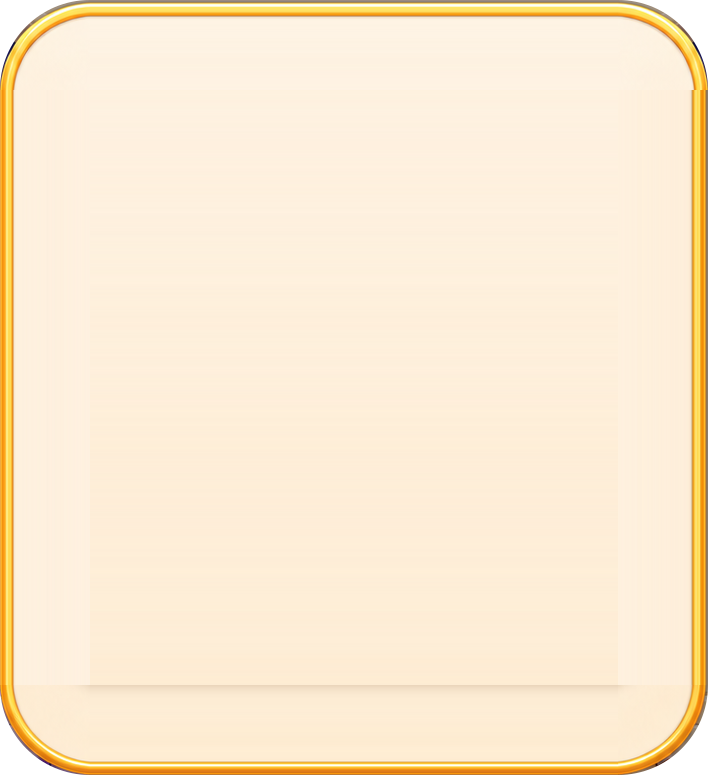
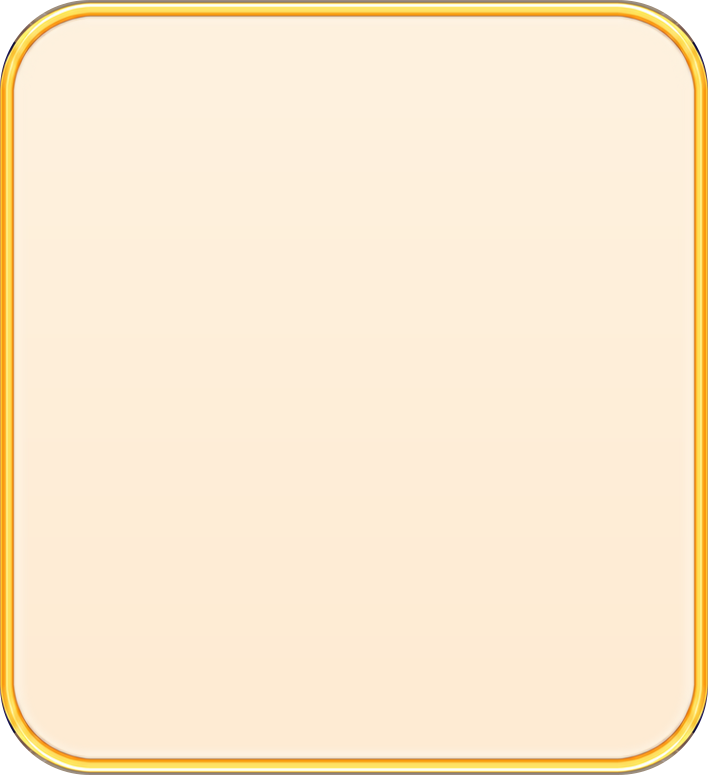
Fix ring orientation, physical layers and sliced artwork seams

Changed region(s): [[0.0, 0.0929, 1.0, 1.0]]

diff --git a/src/prototype/board.js b/src/prototype/board.js
@@ -1,18 +1,19 @@
 import * as THREE from 'three';
 import { cellId } from '../game/hex.js';
-import { canPlaceMagnet } from './model.js';
+import { COLORS, canPlaceMagnet } from './model.js';
 import { sampleTransferTimeline } from './motion.js';
+import { createRingGeometry, hexContour, RING_HEIGHT } from './ring.js';
 
-const UNIT_HEIGHT = .17;
+const UNIT_HEIGHT = RING_HEIGHT;
 const FLOOR = .16;
 const RADIUS = .64;
 export function cellPosition(cell) {
   return { x: (cell.col - 3 + (cell.row % 2) * .5 - .25) * Math.sqrt(3) * RADIUS,
-    z: (cell.row - 3) * 1.75 * RADIUS };
+    z: (cell.row - 3) * 1.94 * RADIUS };
 }
 
-// Authored raster layers in a Three scene. Each ring is still an independently
-// positioned object: the model, neighbor routes and transfer timing are unchanged.
+// Raster UI/tiles and solid rings share one Three scene. Every model unit owns
+// one mesh; the authored ring top is mapped without its baked side wall.
 export function createThreeBoard(canvas, textures) {
   const renderer = new THREE.WebGLRenderer({ canvas, antialias: true, alpha: true });
   renderer.setClearColor(0x000000, 0);
@@ -20,21 +21,39 @@ export function createThreeBoard(canvas, textures) {
   renderer.outputColorSpace = THREE.SRGBColorSpace;
   const scene = new THREE.Scene();
   const camera = new THREE.OrthographicCamera(-4, 4, 4, -4, .1, 60);
-  camera.position.set(0, 13, 9); camera.lookAt(0, .1, 0);
+  camera.position.set(0, 11, 10); camera.lookAt(0, .1, 0);
+  scene.add(new THREE.HemisphereLight(0xffffff, 0x654777, 2));
+  const light = new THREE.DirectionalLight(0xffffff, 2.5);
+  light.position.set(-4, 8, 5); scene.add(light);
   const resources = new Set(Object.values(textures));
   const own = resource => { resources.add(resource); return resource; };
   const plane = own(new THREE.PlaneGeometry(1, 1));
+  const ringGeometry = own(createRingGeometry());
   const materials = Object.fromEntries(Object.entries(textures).map(([name, texture]) => [name,
     own(new THREE.MeshBasicMaterial({ map: texture, transparent: true, depthTest: false, depthWrite: false, toneMapped: false, side: THREE.DoubleSide }))]));
+  const ringMaterials = Object.fromEntries(Object.entries(COLORS).map(([color, info]) => {
+    const cap = own(materials['ring-' + color].clone());
+    cap.depthTest = cap.depthWrite = true;
+    const wall = own(new THREE.MeshStandardMaterial({ color: info.hex, roughness: .28, metalness: .08,
+      transparent: true, depthTest: true, depthWrite: true }));
+    return [color, [cap, wall]];
+  }));
+  const tileHeight = 1.18 * textures.tile.image.height / textures.tile.image.width;
   const pickShape = new THREE.Shape();
-  for (let i = 0; i < 6; i++) {
-    const x = Math.sin(i * Math.PI / 3) * RADIUS * .92, y = Math.cos(i * Math.PI / 3) * RADIUS * .92;
-    if (!i) pickShape.moveTo(x, y); else pickShape.lineTo(x, y);
-  }
+  [[0, .5], [.5, .25], [.5, -.25], [0, -.5], [-.5, -.25], [-.5, .25]].forEach(([x, y], index) => {
+    if (!index) pickShape.moveTo(x * 1.18, y * tileHeight); else pickShape.lineTo(x * 1.18, y * tileHeight);
+  });
   pickShape.closePath();
   const pickGeometry = own(new THREE.ShapeGeometry(pickShape));
-  pickGeometry.rotateX(-Math.PI / 2);
   const pickMaterial = own(new THREE.MeshBasicMaterial({ colorWrite: false, depthWrite: false, side: THREE.DoubleSide }));
+  const blockerGeometry = own(new THREE.ShapeGeometry(hexContour(.50)));
+  const blockerPositions = blockerGeometry.attributes.position;
+  const blockerUV = blockerGeometry.attributes.uv;
+  for (let index = 0; index < blockerPositions.count; index++) {
+    blockerUV.setXY(index, (70 + blockerPositions.getX(index) / .50 * 59) / 140,
+      1 - (65 - blockerPositions.getY(index) / .50 * 59) / 141);
+  }
+  blockerGeometry.rotateX(-Math.PI / 2);
   const validMaterial = own(materials.tile.clone()); validMaterial.color.set('#b7ffd3');
   const invalidMaterial = own(materials.tile.clone()); invalidMaterial.color.set('#ffaaa0');
   const tutorialMaterial = own(materials.tile.clone()); tutorialMaterial.color.set('#fff1a6');
@@ -60,19 +79,28 @@ export function createThreeBoard(canvas, textures) {
     const blocked = new Set(level.blockers.map(cellId));
     for (const cell of level.cells) {
       const pos = cellPosition(cell), id = cellId(cell);
-      const tile = artwork(blocked.has(id) ? 'blocker' : 'tile', 1.18);
+      const tile = artwork('tile', 1.18);
       tile.position.set(pos.x, 0, pos.z);
       tile.renderOrder = Math.round(pos.z * 100);
       boardRoot.add(tile); cellMeshes.set(id, tile);
+      if (blocked.has(id)) {
+        const marker = new THREE.Mesh(blockerGeometry, materials.blocker);
+        marker.position.set(pos.x, FLOOR, pos.z); marker.renderOrder = 500;
+        boardRoot.add(marker);
+      }
       const pick = new THREE.Mesh(pickGeometry, pickMaterial);
-      pick.position.set(pos.x, .15, pos.z); pick.userData.cell = cell;
+      pick.quaternion.copy(camera.quaternion);
+      pick.position.set(pos.x, 0, pos.z); pick.userData.cell = cell;
       boardRoot.add(pick); pickMeshes.push(pick);
     }
   }
   function unitMesh(unit) {
     if (unitMeshes.has(unit.id)) return unitMeshes.get(unit.id);
     const root = new THREE.Group();
-    root.add(artwork('ring-' + unit.color, .94));
+    const body = new THREE.Mesh(ringGeometry, ringMaterials[unit.color]);
+    body.renderOrder = 1000; body.userData.unitId = unit.id;
+    body.position.y = -UNIT_HEIGHT / 2;
+    root.add(body);
     unitsRoot.add(root); unitMeshes.set(unit.id, root);
     return root;
   }
@@ -88,7 +116,7 @@ export function createThreeBoard(canvas, textures) {
       if (pose.from) {
         const from = cellPosition(pose.from), to = cellPosition(pose.to);
         const p = pose.progress, ease = p * p * (3 - 2 * p);
-        const fromY = FLOOR + pose.fromIndex * UNIT_HEIGHT, toY = FLOOR + pose.toIndex * UNIT_HEIGHT;
+        const fromY = FLOOR + (pose.fromIndex + .5) * UNIT_HEIGHT, toY = FLOOR + (pose.toIndex + .5) * UNIT_HEIGHT;
         mesh.position.set(THREE.MathUtils.lerp(from.x, to.x, ease), THREE.MathUtils.lerp(fromY, toY, ease), THREE.MathUtils.lerp(from.z, to.z, ease));
         if (!timeline.reduced) {
           mesh.position.y += Math.sin(p * Math.PI) * .54;
@@ -96,15 +124,14 @@ export function createThreeBoard(canvas, textures) {
           mesh.setRotationFromAxisAngle(axis, -Math.PI * 2 * ease);
         }
       } else {
-        const pos = cellPosition(pose.cell); mesh.position.set(pos.x, FLOOR + pose.index * UNIT_HEIGHT, pos.z);
+        const pos = cellPosition(pose.cell); mesh.position.set(pos.x, FLOOR + (pose.index + .5) * UNIT_HEIGHT, pos.z);
       }
-      // Front rows occlude rear rows; a moving piece clears the static board.
-      mesh.children[0].renderOrder = pose.from ? 2000 : Math.round(mesh.position.z * 100) + 40 + pose.index;
+      mesh.userData = { id: pose.id, color: pose.color, cell: pose.cell ?? null, index: pose.index ?? null,
+        moving: Boolean(pose.from), from: pose.from, to: pose.to, progress: pose.progress, scale: pose.scale };
     }
     for (const [id, mesh] of unitMeshes) if (!alive.has(id)) { unitsRoot.remove(mesh); unitMeshes.delete(id); }
     for (const [id, tile] of cellMeshes) {
-      const isBlocked = level.blockers.some(cell => cellId(cell) === id);
-      tile.material = isBlocked ? materials.blocker : materials.tile;
+      tile.material = materials.tile;
       if (hover && cellId(hover) === id && selected && !paused) tile.material = canPlaceMagnet(state, hover) ? validMaterial : invalidMaterial;
       else if (hint && cellId(hint) === id && !paused) tile.material = tutorialMaterial;
     }
@@ -114,7 +141,7 @@ export function createThreeBoard(canvas, textures) {
       const pos = cellPosition(activeMagnet.cell);
       magnet.position.set(pos.x, FLOOR + .12, pos.z);
       magnet.material = materials['magnet-' + activeMagnet.color];
-      magnet.renderOrder = Math.round(pos.z * 100) + 35;
+      magnet.renderOrder = 600;
     }
     scene.updateMatrixWorld(true); renderer.render(scene, camera);
   }
@@ -138,10 +165,11 @@ export function createThreeBoard(canvas, textures) {
     },
     screenPosition(cell) {
       const pos = cellPosition(cell), rect = canvas.getBoundingClientRect();
-      projected.set(pos.x, .15, pos.z).project(camera);
+      projected.set(pos.x, 0, pos.z).project(camera);
       return { x: rect.left + (projected.x + 1) * rect.width / 2, y: rect.top + (1 - projected.y) * rect.height / 2 };
     },
-    snapshot() { return { engine: 'Three.js', revision: THREE.REVISION, artwork: 'mockup-raster', meshes: unitMeshes.size,
+    snapshot() { return { engine: 'Three.js', revision: THREE.REVISION, artwork: 'textured-solid-rings', meshes: unitMeshes.size,
+      units: [...unitMeshes.values()].map(mesh => ({ ...mesh.userData, position: mesh.position.toArray(), height: RING_HEIGHT * mesh.scale.x })),
       geometries: renderer.info.memory.geometries, textures: renderer.info.memory.textures, drawCalls: renderer.info.render.calls }; },
     dispose() {
       if (disposed) return;

diff --git a/src/prototype/ring.js b/src/prototype/ring.js
@@ -1,0 +1,51 @@
+import * as THREE from 'three';
+
+export const RING_RADIUS = .51;
+export const RING_HEIGHT = .15;
+const BEVEL = .025;
+
+// The common point-up contour lives on the board plane. Do not rotate a
+// perspective-baked PNG in screen space: it also rotates its baked side wall.
+export function hexContour(radius, reverse = false) {
+  const shape = new THREE.Shape();
+  const points = Array.from({ length: 6 }, (_, index) => {
+    const angle = (reverse ? -index : index) * Math.PI / 3;
+    return new THREE.Vector2(Math.sin(angle) * radius, Math.cos(angle) * radius);
+  });
+  points.forEach((point, index) => {
+    const previous = points[(index + 5) % 6], next = points[(index + 1) % 6];
+    const start = point.clone().lerp(previous, .07), end = point.clone().lerp(next, .07);
+    if (!index) shape.moveTo(start.x, start.y); else shape.lineTo(start.x, start.y);
+    shape.quadraticCurveTo(point.x, point.y, end.x, end.y);
+  });
+  shape.closePath();
+  return shape;
+}
+
+// Unproject the authored flat-up top face, then turn it 30 degrees on the
+// board plane. UVs intentionally exclude the lower PNG pixels containing a
+// baked side wall and a sliver of the next layer in the original stack.
+export function ringFaceUV(x, y) {
+  const turnedX = x * Math.cos(Math.PI / 6) + y * .5;
+  const turnedY = -x * .5 + y * Math.cos(Math.PI / 6);
+  return new THREE.Vector2((58 + turnedX / RING_RADIUS * 52) / 116,
+    1 - (32 - turnedY / RING_RADIUS * 27) / 75);
+}
+
+export function createRingGeometry() {
+  const shape = hexContour(RING_RADIUS);
+  shape.holes.push(hexContour(.185, true));
+  const geometry = new THREE.ExtrudeGeometry(shape, {
+    depth: RING_HEIGHT - BEVEL * 2, bevelEnabled: true,
+    bevelSize: BEVEL, bevelThickness: BEVEL, bevelSegments: 3,
+    curveSegments: 4, steps: 1,
+    UVGenerator: {
+      generateTopUV: (_, vertices, ...indices) => indices.map(index => ringFaceUV(vertices[index * 3], vertices[index * 3 + 1])),
+      generateSideWallUV: (_, vertices, ...indices) => indices.map(index => new THREE.Vector2(vertices[index * 3], vertices[index * 3 + 2] / RING_HEIGHT)),
+    },
+  });
+  geometry.rotateX(-Math.PI / 2);
+  geometry.translate(0, BEVEL, 0);
+  geometry.computeBoundingBox();
+  return geometry;
+}

diff --git a/tests/ring.test.js b/tests/ring.test.js
@@ -1,0 +1,31 @@
+import test from 'node:test';
+import assert from 'node:assert/strict';
+import * as THREE from 'three';
+import { createRingGeometry, RING_HEIGHT, RING_RADIUS, ringFaceUV } from '../src/prototype/ring.js';
+
+test('solid ring has a real through hole and exactly one layer of height', () => {
+  const geometry = createRingGeometry();
+  const material = new THREE.MeshBasicMaterial({ side: THREE.DoubleSide });
+  const mesh = new THREE.Mesh(geometry, material);
+  mesh.updateMatrixWorld(true);
+  const ray = new THREE.Raycaster(new THREE.Vector3(0, 2, 0), new THREE.Vector3(0, -1, 0));
+  assert.equal(ray.intersectObject(mesh).length, 0, 'centre is open rather than painted dark');
+  ray.ray.origin.x = .32;
+  assert.ok(ray.intersectObject(mesh).length > 0, 'ring body has a solid cap');
+  assert.ok(Math.abs(geometry.boundingBox.min.y) < 1e-6);
+  assert.ok(Math.abs(geometry.boundingBox.max.y - RING_HEIGHT) < 1e-6);
+  // Point-up hex: its two tips are along the row axis, not the column axis.
+  const size = geometry.boundingBox.getSize(new THREE.Vector3());
+  assert.ok(size.z > size.x);
+  geometry.dispose(); material.dispose();
+});
+
+test('top texture never samples the baked side wall or the adjacent PNG layer', () => {
+  for (let index = 0; index < 360; index++) {
+    const angle = index * Math.PI / 180;
+    const uv = ringFaceUV(Math.sin(angle) * RING_RADIUS, Math.cos(angle) * RING_RADIUS);
+    const pixelY = (1 - uv.y) * 75;
+    assert.ok(pixelY >= 5 - 1e-6 && pixelY <= 59 + 1e-6);
+    assert.ok(uv.x > 0 && uv.x < 1);
+  }
+});

diff --git a/docs/design/MOCKUP_ASSETS.md b/docs/design/MOCKUP_ASSETS.md
@@ -10,15 +10,15 @@
 
 - `logo-exact`, `background`, `magnet-*`, `pause`, `close`, `hint`, `restart`: изображения в DOM и/или текстуры Three.
 - `panel`, `modal`, `button-*`, `tool-*-frame`, `progress-*`, `loading-*`: CSS border-image с fill/stretch, аналог nine-slice. Углы и кромки берутся из PNG, без CSS-градиентов вместо рисунка.
-- `tile`, `blocker`, `ring-*`, `magnet-*`: общие sRGB-текстуры в Three.js. Камера фиксирована; графика запечена в плоскостях, ориентированных к камере. Каждый элемент остаётся отдельным объектом, движущимся по реальным соседним клеткам. Это 2.5D-представление в Three, не процедурная объёмная геометрия прежней версии.
+- `tile`, `blocker`, `ring-*`, `magnet-*`: общие sRGB-текстуры в Three.js. Плитки и магниты ориентированы к фиксированной камере; препятствие — вставка на плитке. С 2026-10-10 каждый элемент стопки — отдельное объёмное кольцо с настоящим отверстием. На его верх проецируется только верхняя грань исходного PNG; запечённая боковина не дублирует слои. Подробности: [THREE_RENDERING](THREE_RENDERING.md).
 - `paused-title`, `defeat-title`, `defeat-magnet`, `victory-ribbon`, `tutorial-arrow`, `switch-*`: графика соответствующих состояний.
 - `loading-art` — отдельная верхняя иллюстрация экрана загрузки; текст, полоса и процент живые. Процент отражает число завершённых загрузок/декодирований, а не выдуманное значение 72% из мокапа.
 - `logo` и `tool-violet/blue/coral` оставлены как исходные варианты/пластины для дизайнера; runtime использует отдельные компоненты.
 
 DOM отвечает за расположение, доступность, английские динамические тексты и счётчики. Nunito остаётся локальным шрифтом с OFL. Карточки, панели, кнопки и переключатель получают внешний вид из PNG. Первый уровень показывает один магнит, графическую стрелку к настоящей клетке и двухстрочную инструкцию; следующие уровни — три магнита.
 
-Все ресурсы декодируются до открытия ввода. Ошибка любого обязательного PNG показывает Retry; повторная инициализация и dispose инвалидируют устаревшие загрузки. Неуспешная/устаревшая партия освобождает текстуры. Сцена владеет восемью общими текстурами, материалами и двумя геометриями. Reset переиспользует их. RAF по-прежнему один и работает только во время timeline.
+Все ресурсы декодируются до открытия ввода. Ошибка любого обязательного PNG показывает Retry; повторная инициализация и dispose инвалидируют устаревшие загрузки. Неуспешная/устаревшая партия освобождает текстуры. Сцена владеет восемью общими текстурами, материалами и четырьмя геометриями. Reset переиспользует их. RAF по-прежнему один и работает только во время timeline.
 
 ## Проверки и границы
 
-Проверки и актуальные снимки: [RASTER_DESIGN](../reports/RASTER_DESIGN.md). Сравнение оценивает реальные изображения и пропорции, а не обещает попиксельное совпадение: поле модели содержит 25 клеток, макет — условную геометрию; динамические числа, переносы строк и размеры адаптируются к экрану. Отверстия/свет на спрайтах запечены, свободное вращение камеры не поддерживается. Фон и клетка после восстановления могут отличаться от закрытых частей оригинала. Реальные устройства и производительность на телефоне не измерялись.
+Проверки первоначального переноса: [RASTER_DESIGN](../reports/RASTER_DESIGN.md); исправлений: [RING_VISUAL_FIXES](../reports/RING_VISUAL_FIXES.md). Сборщик удаляет отдельные alpha-островки вокруг плитки и восстанавливает пустые внутренние области рамок с плавным переходом, чтобы nine-slice не показывал прямоугольные заплатки. Золотые края модального окна собираются из согласованного угла и прилегающих пикселей. Попиксельное совпадение не заявляется: поле модели содержит 25 клеток, макет — условную геометрию; динамические числа, переносы строк и размеры адаптируются. Свободное вращение камеры не поддерживается. Фон и клетка после восстановления могут отличаться от закрытых частей оригинала. Реальные устройства и производительность на телефоне не измерялись.

diff --git a/docs/design/THREE_RENDERING.md b/docs/design/THREE_RENDERING.md
@@ -18,7 +18,7 @@ View не вызывает симулятор. Модель не знает о T
 ## Рендер и ввод
 
 - WebGLRenderer, WebGL 2; OrthographicCamera под фиксированным углом. Нет OrbitControls или второго animation loop.
-- Отдельная mesh-группа на реальный элемент; фактическая высота соответствует индексу в массиве units. Geometry/material/texture общие для сцены. Актуальная графика — PNG-плоскости из утверждённых мокапов, ориентированные к фиксированной камере; это 2.5D в Three. Свет и отверстия запечены в рисунке.
+- Отдельная mesh-группа на реальный элемент; фактическая высота соответствует индексу в массиве units. Кольца — общая ExtrudeGeometry с настоящим сквозным отверстием, вершиной hex вверх и толщиной 0.15 на каждый элемент. Верхняя грань использует текстуру мокапа без запечённой боковины; боковина и фаски объёмные, с простым освещением. Вращение идёт вокруг центра кольца. Плитки и магниты остаются PNG-плоскостями.
 - Resize задаёт CSS размер, drawing buffer с текущим DPR и frustum камеры. Весь board остаётся в кадре portrait/landscape.
 - Pointer переводится из актуального `canvas.getBoundingClientRect()` в NDC, затем Raycaster проверяет плитки. Модель повторно проверяет разрешение на placement; target от view — только cell, не mesh.
 - Drag захватывает pointer, игнорирует второй pointer и отменяется при cancel, lost capture, blur, hidden, resize, pause/reset/dispose. Tap поля с большим перемещением указателя не превращается в случайное размещение.
@@ -26,7 +26,7 @@ View не вызывает симулятор. Модель не знает о T
 
 ## Lifecycle и стоимость
 
-Растровая редакция 2026-10-09 заменяет прежние ExtrudeGeometry/RoomEnvironment/PMREM на общую PlaneGeometry, отдельную ShapeGeometry для raycast и восемь sRGB-текстур. MeshBasicMaterial не меняет запечённые цвета освещением или tone mapping. PNG загружаются и декодируются до ввода, включая DOM/nine-slice ресурсы. При ошибке партии успешные текстуры освобождаются; generation token отклоняет результаты после retry/dispose. Подробности и источники: [MOCKUP_ASSETS](MOCKUP_ASSETS.md). DOM +6 берётся из события очистки, не вычисляет игровой результат.
+Исправление 2026-10-10 использует четыре общие геометрии: плоскость, raycast hex, вставку препятствия и объёмное кольцо; восемь sRGB-текстур. Кольца записывают глубину и перекрывают друг друга по реальному положению. PNG плиток не перекрывают нижние слои стопки. Raycast соответствует видимому контуру плитки. Нет PMREM, постобработки и теневых карт. PNG загружаются и декодируются до ввода, включая DOM/nine-slice ресурсы. При ошибке партии успешные текстуры освобождаются; generation token отклоняет результаты после retry/dispose. Подробности и источники: [MOCKUP_ASSETS](MOCKUP_ASSETS.md). DOM +6 берётся из события очистки, не вычисляет игровой результат.
 
 RAF принадлежит runtime и нужен только при активной timeline. Pause/hidden сбрасывают накопитель и предыдущий timestamp. Reset удаляет presentation и восстанавливает исходные units, переиспользуя renderer и GPU-ресурсы. При смене уровня mesh-экземпляры пересоздаются, shared buffers остаются.
 

diff --git a/docs/reports/RING_VISUAL_FIXES.md b/docs/reports/RING_VISUAL_FIXES.md
@@ -1,0 +1,17 @@
+# Исправления визуализации — 2026-10-10
+
+Пользователь сообщил о неверной ориентации стопок, несоответствии видимых слоёв перелетающим элементам и артефактах ассетов.
+
+Причины: PNG кольца был ориентирован гранью вверх, а плитка — вершиной; PNG уже содержал боковую стенку. Наложение таких плоскостей скрывало границы настоящих элементов, а при перевороте показывало бумажную грань. Порядок отрисовки по рядам позволял плиткам закрывать низ стопки. В рамках оставались прямоугольные заплатки, в плитке — отдельные цветные пиксели.
+
+Каждый элемент теперь имеет одну общую объёмную геометрию с настоящим отверстием и толщиной 0.15. Текстура верха берётся из мокапа без нижней боковины. Поворот вершиной вверх согласован с плиткой, переворот идёт вокруг центра, глубина определяет перекрытие колец. Высота соседних элементов отличается ровно на толщину кольца. Препятствие помещено на обычную плитку; raycast повторяет её видимый контур. PNG-рамки очищены с плавным переходом; углы и края модального окна согласованы. Правила, состав уровней и тайминг переноса не менялись.
+
+Проверки:
+
+- `pnpm check:full`: 135 тестов и production build.
+- `GAME_BASE_URL=http://127.0.0.1:5174 node tools/browser-check.cjs`: desktop/mobile viewport, размещение/перетаскивание, pause/reset, все решения, победа/поражение, resize и освобождение.
+- `node tools/raster-browser-check.cjs` с тем же GAME_BASE_URL: загрузка PNG, отказ/retry, обучение и адаптивность.
+- `node tools/ring-browser-check.cjs` с тем же GAME_BASE_URL: 782 детерминированных WebGL-кадра всех решений, обычное/уменьшенное движение; сравнение ID всех неочищенных элементов с mesh, отсутствие дубликатов, число перелётов, физические позиции слоёв. Четыре общие геометрии остаются стабильными после прогрева. Один элемент может законно совершить несколько соседних перелётов — число событий переноса не равно числу уникальных колец.
+- Визуально просмотрены снимки gameplay, pause и трёх фаз переворота; браузерные артефакты: `artifacts/raster-browser/`, `artifacts/ring-browser/`, `artifacts/three-browser/`.
+
+Браузерные проверки используют Chromium и размеры экранов, а не физический телефон. Реальная мобильная производительность не измерялась. Это исправление конкретных причин артефактов; попиксельное совпадение всех адаптивных состояний с иллюстративными мокапами не заявляется.

diff --git a/docs/PROJECT.md b/docs/PROJECT.md
@@ -9,12 +9,13 @@
 | `src/prototype/model.js` | Rules v3: ordered units, immutable applyMagnet, BFS, верхний цвет, очистка по 6, победа/поражение |
 | `src/prototype/levels.js` | Три авторских поля и детерминированные решения |
 | `src/prototype/motion.js` | Поэлементная timeline: запуск, соседний полёт, посадка, очистка, reduced motion |
-| `src/prototype/board.js` | Three.js 0.186.1, OrthographicCamera, PNG-плоскости/общие текстуры, raycasting, GPU cleanup |
+| `src/prototype/board.js`, `ring.js` | Three.js 0.186.1, OrthographicCamera, объёмные кольца с PNG-текстурой верха, плитки/магниты, raycasting, GPU cleanup |
 | `src/prototype/assets.js`, `public/art/mockup/` | Декодирование PNG до ввода, общие текстуры, nine-slice рамки, manifest вырезок |
 | `src/prototype/App.js`, `prototype.css` | Preact HUD, магниты, правила, hint/result/retry, адаптивная композиция |
 | `src/game/hex.js`, `src/loop.js` | Переиспользуемые чистые hex helpers и fixed step |
 | `tests/prototype-v3.test.js` | Соседство каждого переноса, открытые слои, масса, immutable state, все legal first placements, решения и timeline |
 | `tools/browser-check.cjs` | Новый desktop/mobile viewport сценарий Three.js; `pnpm test:browser` |
+| `tests/ring.test.js`, `tools/ring-browser-check.cjs` | Сквозное отверстие, толщина кольца, ориентация, UV без боковины; число реально отображаемых элементов и позиции слоёв на 782 кадрах |
 | `src/legacy-main.js`, `tools/legacy-browser-check.cjs` | Сохранённые entry/браузерный сценарий прежнего MVP, не подключённые новым entry |
 | `docs/design/GDD_V0.3.md`, `THREE_RENDERING.md` | Актуальные правила и renderer contract |
 | `docs/design/mockups/2026-10-09-facebook-casual/index.html` | Галерея 12 AI-мокапов состояний; предложение оформления, не runtime UI |

diff --git a/README.md b/README.md
@@ -4,6 +4,8 @@
 
 Перенос casual-мокапов через отдельные PNG-ассеты, nine-slice рамки и графические слои Three.js; английский интерфейс и магниты без символов. [Ассеты](docs/design/MOCKUP_ASSETS.md), [план](docs/design/CASUAL_MIGRATION.md), [результат и проверки](docs/reports/RASTER_DESIGN.md).
 
+Исправления 2026-10-10: объёмные кольца совпадают с ориентацией клеток; каждый видимый слой соответствует одному элементу модели, включая перелёт. Очищены плитки и стыки растровых рамок. [Отчёт](docs/reports/RING_VISUAL_FIXES.md).
+
 ```powershell
 pnpm install --frozen-lockfile
 pnpm dev
